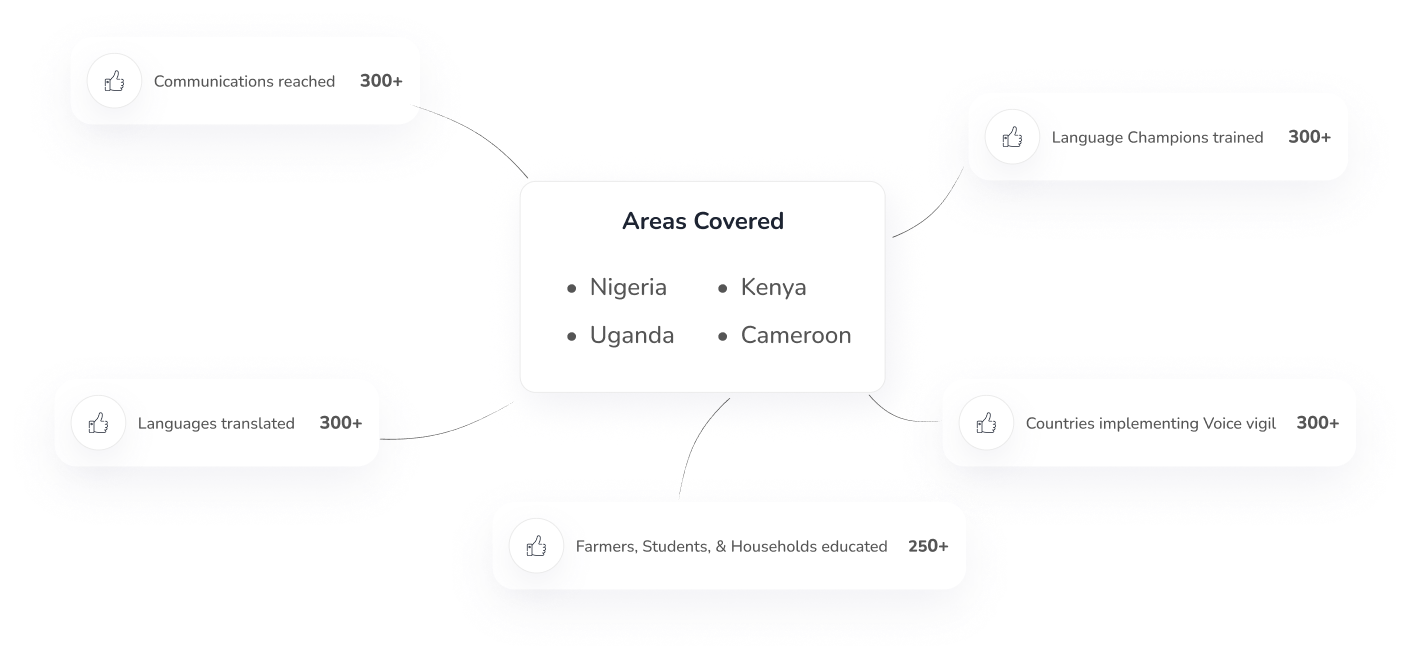
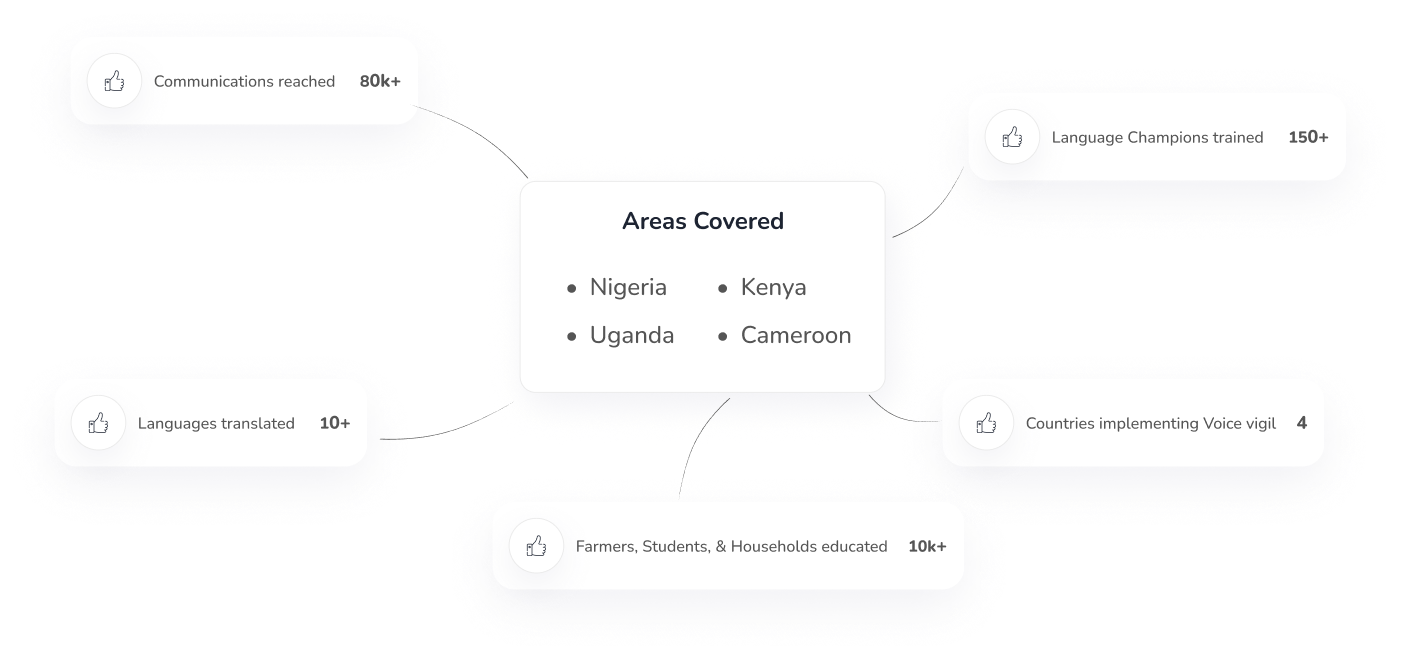
pushing update

diff --git a/app/page.tsx b/app/page.tsx
@@ -67,7 +67,7 @@ export default function HomePage() {
               <article className="w-full shrink-0 px-2" key={t.name}>
                 <div className="relative mx-auto flex max-w-[420px] flex-col items-center rounded-2xl border border-[#ECEEF2] bg-white px-6 pb-7 pt-9 shadow-[0_6px_18px_rgba(0,0,0,0.04)]">
                   {/* Optimized Avatar Container */}
-                  <div className="absolute -top-5 z-10 flex h-10 w-10 items-center justify-center overflow-hidden rounded-full border border-[#39B96F] bg-[#E9FFF1] shadow-sm">
+                  <div className="absolute -top-5 z-10 flex h-16 w-16 items-center justify-center overflow-hidden rounded-full border border-[#39B96F] bg-[#E9FFF1] shadow-sm">
                     <Image
                       src={t.avatar}
                       alt={`${t.name}'s avatar`}
@@ -78,7 +78,7 @@ export default function HomePage() {
                     />
                   </div>
 
-                  <p className="mb-5 text-center text-[0.76rem] leading-[1.6] text-[#5C6472]">
+                  <p className="mb-5 mt-2 text-center text-[0.76rem] leading-[1.6] text-[#5C6472]">
                     &quot;{t.quote}&quot;
                   </p>
                   <p className="text-[0.9rem] font-semibold text-[#2B3240]">{t.name}</p>
